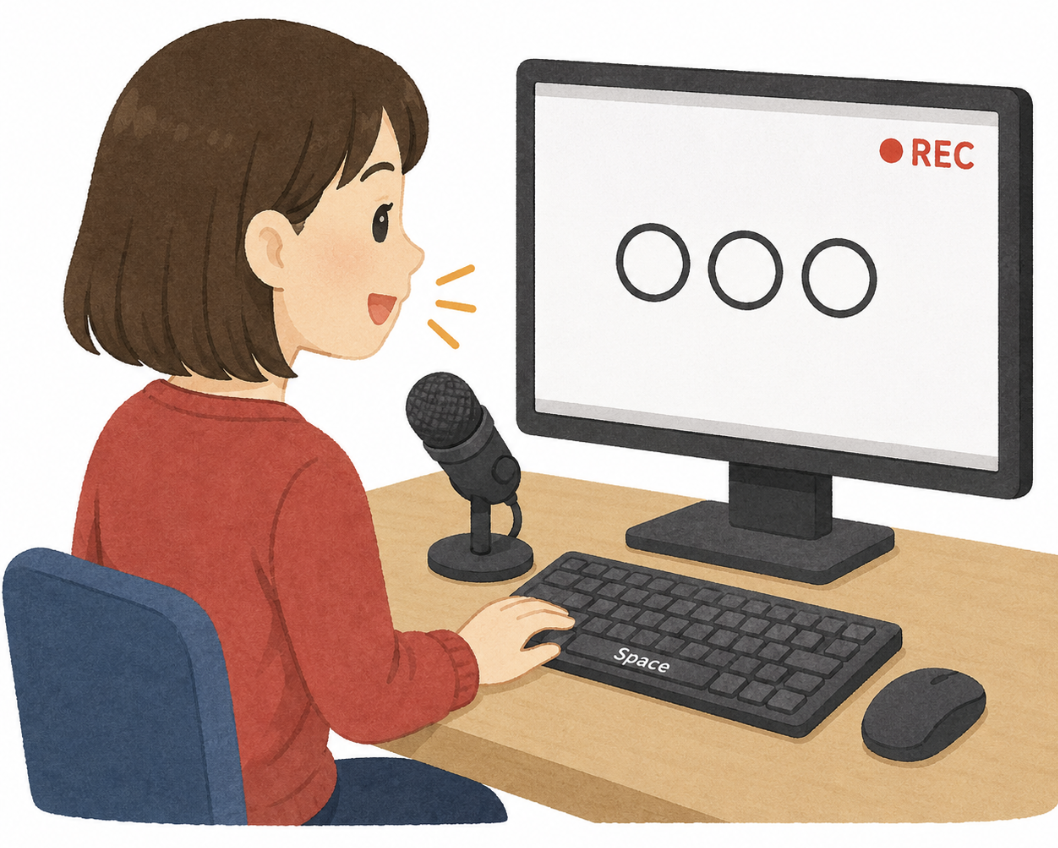
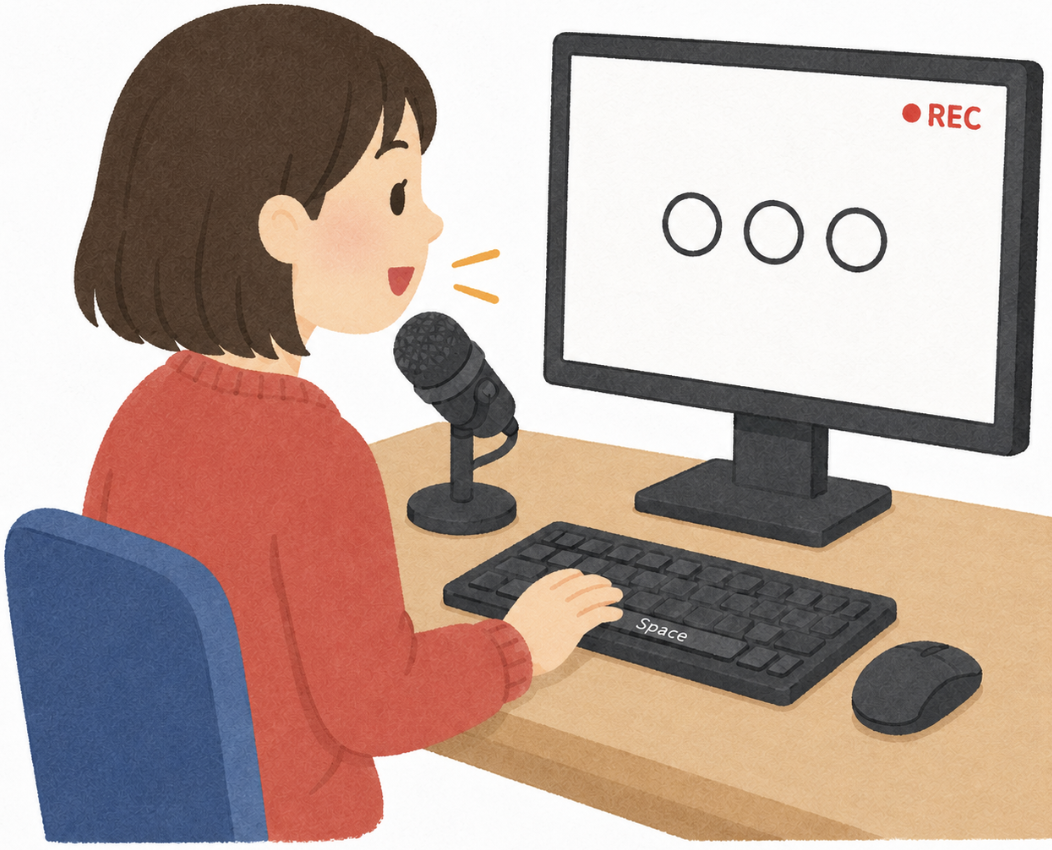
Shorten practice flow and update consent wording

diff --git a/src/App.tsx b/src/App.tsx
@@ -121,8 +121,6 @@ const PRACTICE_STIMULI: StimulusItem[] = [
   { id: 'p001', text: 'パソコン' },
   { id: 'p002', text: 'てれび' },
   { id: 'p003', text: 'ラジオ' },
-  { id: 'p004', text: 'おやつ' },
-  { id: 'p005', text: 'カメラ' },
 ];
 
 // formal stimuli
@@ -169,25 +167,6 @@ function getPracticeType(mode: ExperimentMode, trialIndex: number): PracticeType
   void trialIndex;
   if (mode !== 'practice') return 'none';
   return 'normal';
-}
-
-function getPhaseDisplayLabel(phase: Phase) {
-  const labels: Record<Phase, string> = {
-    setup: '準備',
-    consent: '同意確認',
-    instructions: '説明',
-    practiceConfirmation: '練習前',
-    ready: '開始前',
-    countdown: '準備中',
-    recording: '読み上げ',
-    meaningRecording: '音声回答',
-    survey: 'アンケート',
-    intermission: '本番前',
-    backgroundSurvey: '背景アンケート',
-    done: '完了',
-  };
-
-  return labels[phase];
 }
 
 function pickBestAudioMimeType(): { mimeType: string; ext: string } {
@@ -385,7 +364,7 @@ type InstructionPage = {
 const SURVEY_QUESTIONS: SurveyQuestion[] = [
   {
     key: 'familiarity',
-    prompt: (stimulus) => `「${stimulus}」という単語について、見覚えや聞き覚えはどのくらいありますか`,
+    prompt: (stimulus) => `「${stimulus}」という単語について、見覚えや聞き覚えはどのくらい\nありますか`,
     lowLabel: 'まったく見覚えがない',
     highLabel: 'よく知っている単語だと感じる',
   },
@@ -397,13 +376,13 @@ const SURVEY_QUESTIONS: SurveyQuestion[] = [
   },
   {
     key: 'exposureFreq',
-    prompt: (stimulus) => `普段、会話・授業・メディア・インターネットなどで「${stimulus}」という単語をどのくらい見たり聞いたりしますか`,
+    prompt: (stimulus) => `普段、会話・授業・メディア・インターネットなどで\n「${stimulus}」という単語をどのくらい見たり聞いたりしますか`,
     lowLabel: 'ほとんどない',
     highLabel: 'とてもよくある',
   },
   {
     key: 'useFreq',
-    prompt: (stimulus) => `普段、話す・書く・入力する場面で、自分から「${stimulus}」という単語をどのくらい使いますか`,
+    prompt: (stimulus) => `普段、話す・書く・入力する場面で、「${stimulus}」という単語を\nどのくらい使いますか`,
     lowLabel: 'ほとんど使わない',
     highLabel: 'とてもよく使う',
   },
@@ -444,7 +423,7 @@ const INSTRUCTION_PAGES: InstructionPage[] = [
   {
     badge: 'Practice',
     title: 'まずは練習から始めます',
-    body: '本番の前に、同じ流れで5回練習します。操作に慣れてから本番に進みます。',
+    body: '本番の前に、同じ流れで3回練習します。操作に慣れてから本番に進みます。',
     visual: 'practice',
   },
 ];
@@ -488,7 +467,7 @@ function App() {
 
   const currentResults = mode === 'practice' ? practiceResults : mainResults;
   const completedTrials = currentResults.length;
-  const progressPercent = (completedTrials / activeStimuli.length) * 100;
+  const progressPercent = Math.min((completedTrials / activeStimuli.length) * 100, 100);
 
   async function requestMic() {
     try {
@@ -598,6 +577,14 @@ function App() {
     setMode('practice');
     setCurrentTrialIndex(0);
     setPracticeResults([]);
+    setCountdown(3);
+    setPhase('ready');
+  }
+
+  function repeatFinalPracticeTrial() {
+    setInstructionReturnTarget(null);
+    setMode('practice');
+    setCurrentTrialIndex(Math.max(orderedPracticeStimuli.length - 1, 0));
     setCountdown(3);
     setPhase('ready');
   }
@@ -852,6 +839,10 @@ function App() {
   }
 
   function startCurrentTrial() {
+    setTempReading(null);
+    setTempMeaning(null);
+    setIsMeaningRecording(false);
+    meaningAutoStartKeyRef.current = '';
     setCountdown(3);
     setPhase('countdown');
   }
@@ -1049,11 +1040,7 @@ function App() {
         {/* TopBar 只有在非 setup 且非说明页面显示 */}
         {phase !== 'setup' && phase !== 'consent' && phase !== 'instructions' && phase !== 'practiceConfirmation' && phase !== 'intermission' && (
           <TopBar
-            subjectId={subjectId}
-            phase={phase}
             mode={mode}
-            currentTrialIndex={currentTrialIndex}
-            totalTrials={activeStimuli.length}
             progressPercent={progressPercent}
           />
         )}
@@ -1144,7 +1131,10 @@ function App() {
                         この実験では、画面に表示される単語を声に出して読み、そのあと同じ単語について意味の説明または例文を声で答えていただきます。
                       </p>
                       <p>
-                        単語の読み上げと、意味や例文を答える声は録音されます。回答データと録音データは、研究目的で保存・分析します。
+                        単語の読み上げと、意味や例文を答える声は録音されます。
+                      </p>
+                      <p>
+                        回答データと録音データは、研究目的で保存・分析します。
                       </p>
                     </div>
                     <p className="mt-5 rounded-2xl border border-amber-200 bg-amber-50 px-5 py-4 text-2xl leading-9 text-amber-900">
@@ -1165,7 +1155,7 @@ function App() {
                       onChange={setRecordingConsent}
                       title="録音への同意"
                     >
-                      単語の読み上げと、意味や例文を答える声を録音することに同意します。
+                      録音データを、読み上げ方や回答内容の確認・分析に使用することに同意します。個人の声は、SNS、ウェブサイトなどで公開されません。
                     </ConsentCheck>
                     <ConsentCheck
                       checked={withdrawalConsent}
@@ -1330,7 +1320,7 @@ function App() {
                 </div>
 
                 <div className="space-y-3">
-                  <p className="text-4xl font-medium text-slate-900">読み上げてください</p>
+                  <p className="text-5xl font-semibold text-slate-900">読み上げてください</p>
                   <p className="text-4xl font-medium leading-10 text-slate-700">
                     読み終わったら <span className="rounded-xl border border-slate-200 bg-slate-100 px-4 py-2 text-slate-800">Space</span> キーを押してください。
                   </p>
@@ -1340,20 +1330,19 @@ function App() {
           )}
 
           {phase === 'meaningRecording' && (
-            <CardShell className="max-w-7xl">
-              <div className="space-y-8 text-center">
-                <div className="flex flex-col items-center gap-3">
-                  <div className="mx-auto inline-flex w-full max-w-5xl flex-col items-center gap-3 rounded-3xl border border-sky-200 bg-sky-50 px-8 py-6 font-semibold text-slate-900 shadow-sm">
-                    <span className="text-3xl text-sky-700 sm:text-4xl">対象語</span>
-                    <span className={`whitespace-nowrap leading-none ${getStimulusTextSizeClass(currentStimulus.text)}`}>{currentStimulus.text}</span>
+            <CardShell className="max-w-7xl text-center">
+              <div className="space-y-12">
+                <div className="rounded-[2rem] border border-sky-200 bg-sky-50 px-6 py-14 shadow-xl shadow-sky-100/70 sm:px-10 sm:py-16">
+                  <div className={`whitespace-nowrap font-semibold leading-none text-slate-900 ${getStimulusTextSizeClass(currentStimulus.text)}`}>
+                    {currentStimulus.text}
                   </div>
-                  <h2 className="text-4xl font-semibold tracking-tight text-slate-900 sm:text-5xl lg:text-5xl">意味や例文を声で答えてください</h2>
                 </div>
 
-                <div className="rounded-3xl border border-slate-200 bg-white p-6 shadow-sm sm:p-8 lg:px-10">
-                  <div className="text-4xl font-medium leading-10 text-slate-700">
-                    <p>終わったら Space キーを押してください。</p>
-                  </div>
+                <div className="space-y-3">
+                  <p className="text-5xl font-semibold text-slate-900">意味や例文を答えてください</p>
+                  <p className="text-4xl font-medium leading-10 text-slate-700">
+                    答え終わったら <span className="rounded-xl border border-sky-200 bg-sky-100 px-4 py-2 text-sky-900">Space</span> キーを押してください。
+                  </p>
                 </div>
               </div>
             </CardShell>
@@ -1374,15 +1363,15 @@ function App() {
                   🎉
                 </div>
                 <div className="space-y-3">
-                  <h2 className="text-5xl font-semibold tracking-tight text-slate-900 sm:text-5xl">練習が完了しました</h2>
-                  <p className="text-2xl leading-9 text-slate-600">
-                    実験の流れは掴めましたでしょうか？<br />
-                    ここから本番が始まります。準備ができたら開始ボタンを押してください。
+                  <h2 className="text-5xl font-semibold tracking-tight text-slate-900 sm:text-5xl">操作に慣れましたか</h2>
+                  <p className="text-3xl font-medium leading-10 text-slate-700">
+                    本番に進む準備ができたら、開始してください。<br />
+                    まだ不安がある場合は、最後の練習をもう一度行えます。
                   </p>
                 </div>
                 <div className="flex flex-col-reverse justify-center gap-3 pt-4 sm:flex-row">
-                  <SecondaryButton onClick={beginPractice}>
-                    練習をもう一度行う
+                  <SecondaryButton onClick={repeatFinalPracticeTrial}>
+                    最後の練習をもう一度行う
                   </SecondaryButton>
                   <PrimaryButton onClick={beginMainExperiment}>本番を開始する</PrimaryButton>
                 </div>
@@ -1544,9 +1533,6 @@ function SurveyForm({
         <div className="flex flex-col gap-4 sm:flex-row sm:items-start sm:justify-between">
           <div className="space-y-3">
             <h2 className="text-5xl font-semibold tracking-tight text-slate-900 sm:text-5xl">アンケート</h2>
-            <p className="text-2xl leading-9 text-slate-600">
-              対象語: <span className="font-semibold text-slate-900">{stimulus}</span>
-            </p>
           </div>
           <div className="rounded-2xl border border-slate-200 bg-slate-50 px-4 py-3 text-2xl font-semibold text-slate-600">
             {questionIndex + 1} / {SURVEY_QUESTIONS.length}
@@ -1825,38 +1811,16 @@ function LabeledTextInput({
 }
 
 function TopBar({
-  subjectId,
-  phase,
   mode,
-  currentTrialIndex,
-  totalTrials,
   progressPercent,
 }: {
-  subjectId: string;
-  phase: Phase;
   mode: ExperimentMode;
-  currentTrialIndex: number;
-  totalTrials: number;
   progressPercent: number;
 }) {
-  const modeLabel = mode === 'practice' ? '練習モード' : '本番モード';
-
   return (
     <header className="sticky top-0 z-10 mb-4">
-      <div className="rounded-[1.75rem] border border-slate-200 bg-white/80 px-4 py-4 shadow-sm backdrop-blur-xl sm:px-6">
-        <div className="mb-3 flex flex-col gap-3 sm:flex-row sm:items-center sm:justify-between">
-          <div>
-            <div className="text-base uppercase tracking-[0.2em] text-slate-500">Experiment Panel - {modeLabel}</div>
-            <div className="mt-1 text-2xl font-medium text-slate-700">
-              {subjectId ? `Subject: ${subjectId}` : 'Subject ID not set'}
-            </div>
-          </div>
-          <div className="flex items-center gap-2">
-            <MiniPill label="段階" value={getPhaseDisplayLabel(phase)} />
-            <MiniPill label="単語" value={`${Math.min(currentTrialIndex + 1, totalTrials)}/${totalTrials}`} />
-          </div>
-        </div>
-        <div className="h-2 overflow-hidden rounded-full bg-slate-100">
+      <div className="rounded-full border border-slate-200 bg-white/80 px-4 py-3 shadow-sm backdrop-blur-xl sm:px-6">
+        <div className="h-3 overflow-hidden rounded-full bg-slate-100">
           <div
             className={`h-full rounded-full transition-all duration-500 ${mode === 'practice'
               ? 'bg-gradient-to-r from-amber-300 to-orange-400'
@@ -1918,15 +1882,6 @@ function Badge({ children }: { children: React.ReactNode }) {
   );
 }
 
-function MiniPill({ label, value }: { label: string; value: string }) {
-  return (
-    <div className="rounded-2xl border border-slate-200 bg-slate-50 px-3 py-2 text-2xl text-slate-600">
-      <span className="text-slate-500">{label}</span>
-      <span className="ml-2 font-semibold text-slate-800">{value}</span>
-    </div>
-  );
-}
-
 function StatusRow({ label, value, success = false }: { label: string; value: string; success?: boolean }) {
   return (
     <div className="flex items-center justify-between gap-3 rounded-2xl border border-slate-100 bg-slate-50 px-4 py-3">
@@ -1962,7 +1917,7 @@ function LikertQuestion({
 }) {
   return (
     <section className="rounded-3xl border border-slate-200 bg-white p-6 shadow-sm sm:p-8">
-      <h3 className="text-4xl font-semibold leading-tight text-slate-900">{prompt}</h3>
+      <h3 className="whitespace-pre-line text-4xl font-semibold leading-tight text-slate-900">{prompt}</h3>
 
       <div className="mt-6 flex items-stretch justify-between gap-4 text-2xl font-semibold text-slate-800">
         <span className="flex min-h-14 max-w-[45%] items-center rounded-2xl bg-slate-100 px-4 py-3 text-left leading-7">{lowLabel}</span>

diff --git a/EXPERIMENTER_SCRIPT.md b/EXPERIMENTER_SCRIPT.md
@@ -61,7 +61,7 @@
 参加者が同意する場合は、以下の3項目を確認する。
 
 1. `実験の内容を確認し、参加することに同意します。`
-2. `単語の読み上げと、意味や例文を答える声を録音することに同意します。`
+2. `録音データを、読み上げ方や回答内容の確認・分析に使用することに同意します。個人の声は、SNS、ウェブサイトなどで公開されません。`
 3. `参加は任意であり、参加しない場合や同意を撤回する場合でも不利益はありません。撤回時は可能な範囲で記録とデータを破棄しますが、匿名化後や解析後は個別に破棄できない場合があります。`
 
 3項目の同意が確認できたら、実験者は `同意して説明へ進む` を押す。
@@ -114,7 +114,7 @@
 
 実験者：
 
-> 本番の前に、同じ流れで5回練習します。  
+> 本番の前に、同じ流れで3回練習します。  
 > 操作に慣れてから本番に進みます。
 
 実験者は `確認画面へ進む` を押す。
@@ -135,7 +135,7 @@
 
 ## 6. 練習
 
-練習は5回行う。練習は本番と同じ形式で進む。
+練習は3回行う。練習は本番と同じ形式で進む。
 
 各単語について、画面は以下の順に進む。
 
@@ -145,9 +145,11 @@
 4. `読む → Space`
 5. `読み上げてください`
 6. `終わったら Space キーを押してください。`
-7. `アンケート`
+7. `意味や例文を答えてください`
+8. `答え終わったら Space キーを押してください。`
+9. `アンケート`
 
-意味や例文の回答画面では、対象語の下に `意味や例文を声で答えてください` と表示される。参加者は答え終わったら `Space` キーを押す。
+意味や例文の回答画面では、単語の下に `意味や例文を答えてください` と表示される。参加者は答え終わったら `Space` キーを押す。
 
 アンケートでは、1〜5 の数字を選ぶと次の質問に進む。前の質問に戻る場合は `戻る` を押す。
 
@@ -155,15 +157,15 @@
 
 ## 7. 本番前の確認
 
-練習が5回終わると、画面に `練習が完了しました` と表示される。
+練習が3回終わると、画面に `操作に慣れましたか` と表示される。
 
 実験者：
 
-> 練習が完了しました。  
-> 実験の流れは掴めましたでしょうか。  
-> ここから本番が始まります。準備ができたら開始ボタンを押してください。
+> 操作に慣れましたか。  
+> 本番に進む準備ができたら、開始してください。  
+> まだ不安がある場合は、最後の練習をもう一度行えます。
 
-参加者がもう一度練習したい場合は、実験者は `練習をもう一度行う` を押す。練習は5回行われ、終わると再び本番前の確認に戻る。
+参加者がまだ不安な場合は、実験者は `最後の練習をもう一度行う` を押す。3問目の練習に戻り、終わると再び本番前の確認に戻る。必要に応じて、この操作を繰り返す。
 
 参加者の準備ができたら、実験者は `本番を開始する` を押す。
 

diff --git a/README.md b/README.md
@@ -148,7 +148,7 @@ The exact MIME type is selected from browser-supported WebM options.
 
 Stimuli are currently defined directly in `src/App.tsx`.
 
-- Practice stimuli: 5 items
+- Practice stimuli: 3 items
 - Main stimuli: defined in `MAIN_STIMULI`
 - Main stimuli are shuffled once when the app loads
 - Practice stimuli keep their defined order
